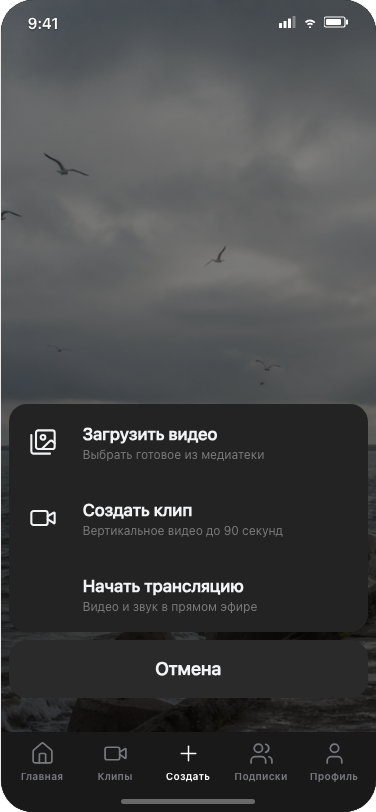
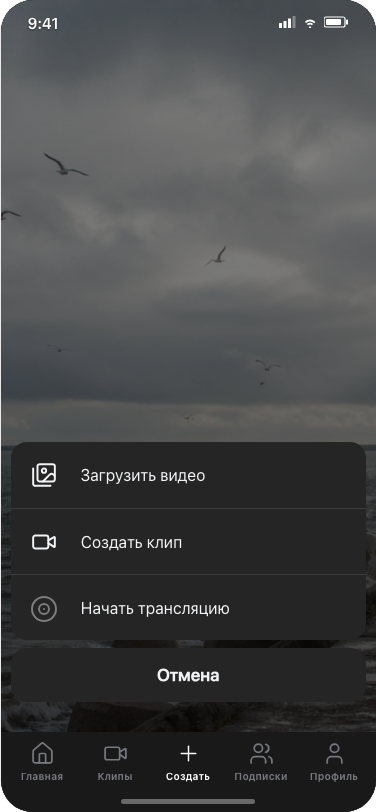
Refine Radius create action sheet

diff --git a/platform/concepts/radius/styles.css b/platform/concepts/radius/styles.css
@@ -2581,9 +2581,9 @@
 .rd-create-sheet {
   position: absolute;
   z-index: 4;
-  left: 8px;
-  right: 8px;
-  bottom: calc(80px + var(--safe-bottom));
+  left: 10px;
+  right: 10px;
+  bottom: calc(76px + var(--safe-bottom));
 }
 .rd-create-sheet-screen > .rd-tabs {
   position: absolute;
@@ -2594,15 +2594,15 @@
 }
 .rd-create-sheet-group {
   overflow: hidden;
-  border-radius: 18px;
-  background: #232323;
+  border-radius: 16px;
+  background: #252525;
 }
 .rd-create-sheet-row {
-  min-height: 76px;
+  min-height: 66px;
   padding: 0 20px;
   display: grid;
-  grid-template-columns: 40px 1fr;
-  gap: 14px;
+  grid-template-columns: 34px 1fr;
+  gap: 16px;
   align-items: center;
   border-top: 1px solid rgba(255, 255, 255, 0.08);
 }
@@ -2610,14 +2610,34 @@
   border-top: 0;
 }
 .rd-create-sheet-row > .rd-icon {
-  width: 28px;
-  height: 28px;
+  width: 26px;
+  height: 26px;
+}
+.rd-live-broadcast {
+  position: relative;
+  width: 26px;
+  height: 26px;
+  border: 2px solid currentColor;
+  border-radius: 50%;
+}
+.rd-live-broadcast::before,
+.rd-live-broadcast::after {
+  content: "";
+  position: absolute;
+  inset: 5px;
+  border: 2px solid currentColor;
+  border-radius: 50%;
+}
+.rd-live-broadcast::after {
+  inset: 10px;
+  border: 0;
+  background: currentColor;
 }
 .rd-create-sheet-row strong {
   display: block;
-  font-size: 17px;
-  line-height: 22px;
-  font-weight: 510;
+  font-size: 16px;
+  line-height: 20px;
+  font-weight: 400;
 }
 .rd-create-sheet-row span {
   display: block;
@@ -2627,14 +2647,14 @@
   line-height: 15px;
 }
 .rd-create-cancel {
-  min-height: 58px;
+  min-height: 54px;
   margin-top: 8px;
-  border-radius: 18px;
-  background: #2a2a2b;
+  border-radius: 16px;
+  background: #252525;
   display: grid;
   place-items: center;
-  font-size: 18px;
-  line-height: 22px;
+  font-size: 17px;
+  line-height: 21px;
   font-weight: 510;
 }
 .rd-create-sheet .rd-denied-box {
@@ -3755,6 +3775,11 @@
 .rd-screen .rd-notify {
   border-top: 0 !important;
   border-bottom: 0 !important;
+}
+
+/* The create menu follows the native VK Video action-sheet rhythm. */
+.screen[data-screen="create"] .rd-create-sheet-row + .rd-create-sheet-row {
+  border-top: 1px solid rgba(255, 255, 255, 0.1) !important;
 }
 .screen[data-screen="code"] .rd-resend {
   min-height: 44px !important;

diff --git a/platform/concepts/radius/screens/create.html b/platform/concepts/radius/screens/create.html
@@ -5,22 +5,19 @@
       <div class="rd-create-sheet-row" data-ask="photo|upload|create">
         <svg class="rd-icon"><use href="#i-images" /></svg>
         <div>
-          <strong>Загрузить видео</strong
-          ><span>Выбрать готовое из медиатеки</span>
+          <strong>Загрузить видео</strong>
         </div>
       </div>
       <div class="rd-create-sheet-row" data-ask="camera+mic|camera|create">
         <svg class="rd-icon"><use href="#i-video" /></svg>
         <div>
-          <strong>Создать клип</strong
-          ><span>Вертикальное видео до 90 секунд</span>
+          <strong>Создать клип</strong>
         </div>
       </div>
       <div class="rd-create-sheet-row" data-ask="camera+mic|camera|create">
-        <svg class="rd-icon"><use href="#i-radio" /></svg>
+        <span class="rd-live-broadcast" aria-hidden="true"></span>
         <div>
-          <strong>Начать трансляцию</strong
-          ><span>Видео и звук в прямом эфире</span>
+          <strong>Начать трансляцию</strong>
         </div>
       </div>
     </div>
